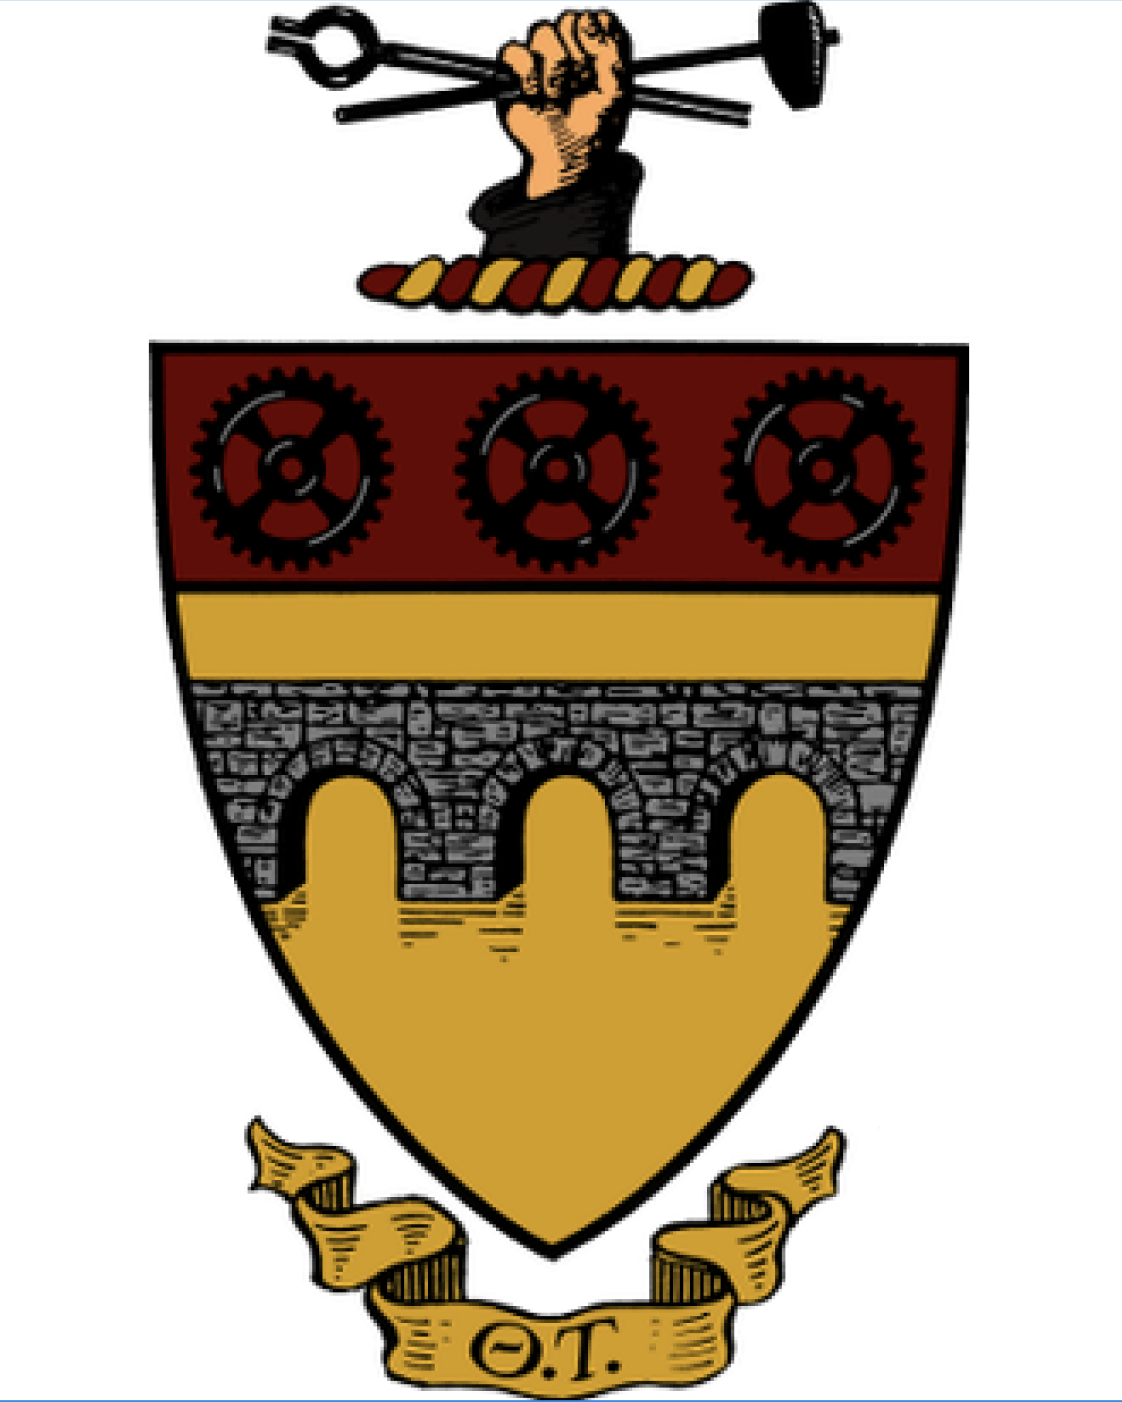
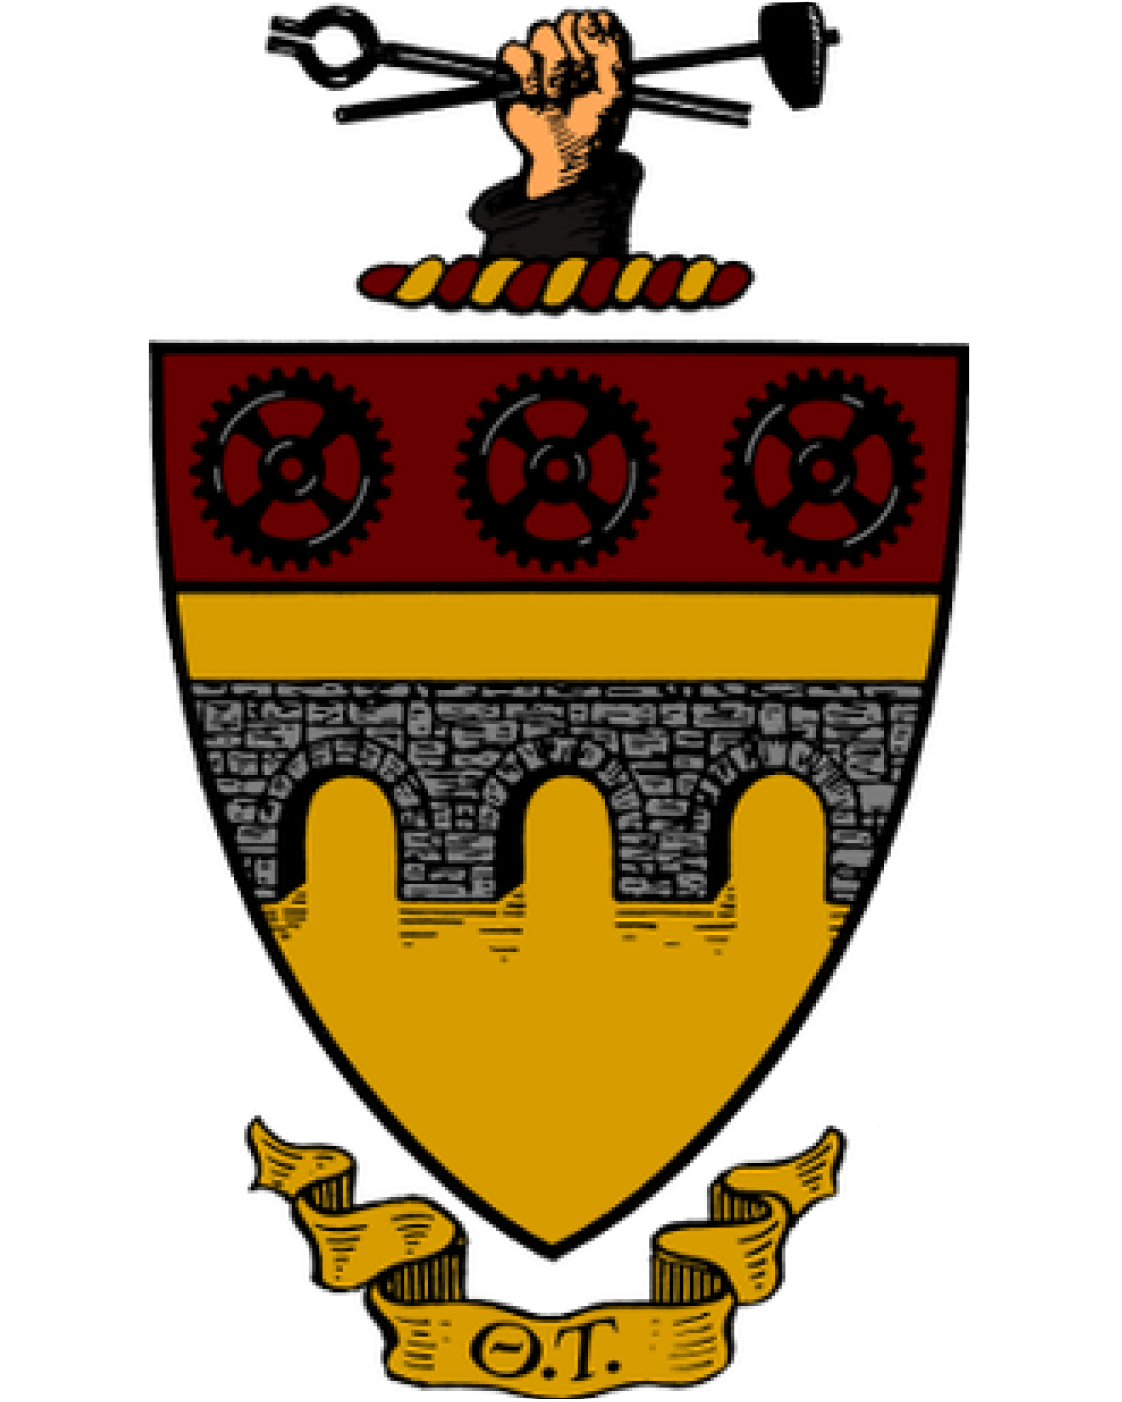
Update color and improve styles across multiple components
Changed various color codes to ensure consistency across components. Added text transformations and font style adjustments to enhance visual appeal and readability.

diff --git a/src/components/Rush/Rush.css b/src/components/Rush/Rush.css
@@ -40,7 +40,7 @@
 .rush-countdown {
     font-size: 24px;
     font-weight: 700;
-    color: #ffc243;
+    color: #FFD700FF;
 }
 
 .rush-countdown span {
@@ -71,7 +71,7 @@
 
 .rush-timeline {
     margin-top: 20px;
-    border-left: 2px solid #ffc243;
+    border-left: 2px solid #FFD700FF;
     padding-left: 30px;
 }
 
@@ -119,7 +119,7 @@
 }
 
 .interest-btn {
-    background-color: #FFD700;
+    background-color: #FFD700FF;
     border: none;
     padding: 1rem 2rem;
     font-size: 1.25rem;
@@ -131,5 +131,5 @@
 }
 
 .interest-btn:hover {
-    background-color: #ffcc00;
+    background-color: #FFD700FF;
 }

diff --git a/src/components/Home/Home.css b/src/components/Home/Home.css
@@ -31,7 +31,7 @@
 }
 
 .title {
-    font-size: 5em; /* Decreased from 4rem */
+    font-size: 6em; /* Decreased from 4rem */
     font-weight: bold;
     margin-bottom: 0.5rem;
 }
@@ -41,6 +41,8 @@
     font-weight: 700;
     color: #FFD700;
     margin-bottom: 1rem;
+    font-style: italic;
+    text-transform: uppercase;
 }
 
 .description {
@@ -57,6 +59,7 @@
     font-weight: bold;
     color: #000;
     transition: background-color 0.3s ease;
+    font-family: 'Mohave', sans-serif;
 }
 
 .rush-btn:hover {

diff --git a/src/components/Header/Header.css b/src/components/Header/Header.css
@@ -66,7 +66,7 @@
 .login-link ul li a:hover,
 .nav-links ul li.active a, /* Highlight the active link */
 .login-link ul li.active a { /* Highlight the active link */
-    color: #e7aa20;
+    color: #FFD700FF;
 }
 
 .login-link {

diff --git a/src/components/AboutUs/AboutUs.css b/src/components/AboutUs/AboutUs.css
@@ -8,7 +8,7 @@
 
 .aboutus-subtitle {
     font-size: 36px;
-    color: #ce9f35;
+    color: #FFD700FF;
     margin: 20px 0;
     text-transform: uppercase;
     font-style: italic;
